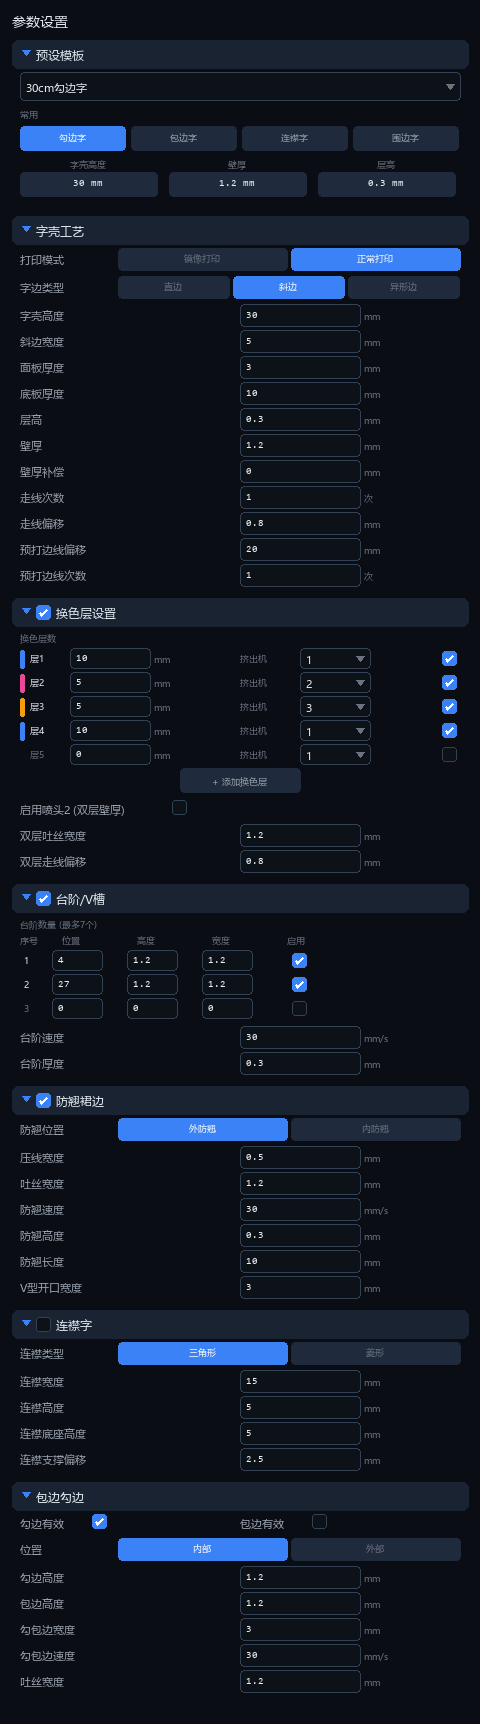
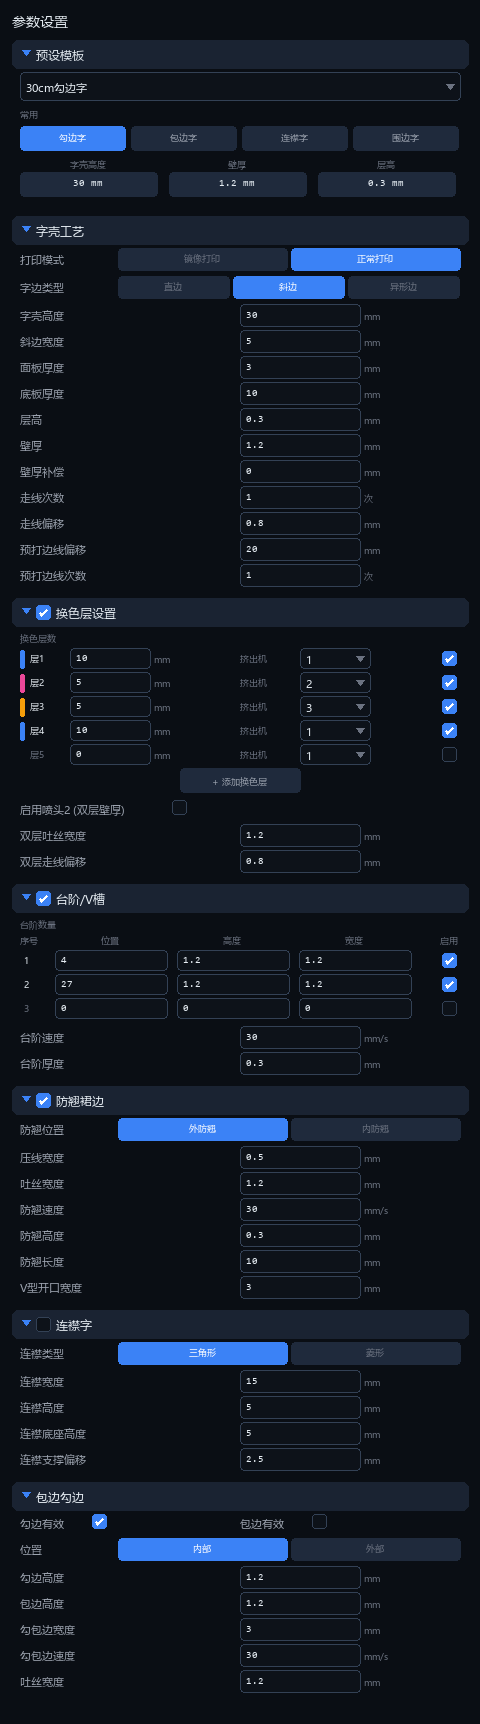
feat: 台阶/V槽设置布局优化
- 位置、高度、宽度三列均匀分布
- 表头文字与输入框居中对齐
- 复选框与换色层复选框对齐
- 删除"(最多7个)"提示文字

diff --git a/scripts/generate_ui_params.py b/scripts/generate_ui_params.py
@@ -375,15 +375,38 @@ def generate_part1():
     # ============================================
     renderer.draw_section_header("台阶/V槽", expanded=True, has_checkbox=True, checked=True)
 
-    renderer.draw_text(m + 8, renderer.y + 2, "台阶数量 (最多7个)", font_small, C["text_muted"])
+    renderer.draw_text(m + 8, renderer.y + 2, "台阶数量", font_small, C["text_muted"])
     renderer.y += 18
 
-    # 表头
-    renderer.draw_text(m + 8, renderer.y, "序号", font_small, C["text_muted"])
-    renderer.draw_text(m + 50, renderer.y, "位置", font_small, C["text_muted"])
-    renderer.draw_text(m + 125, renderer.y, "高度", font_small, C["text_muted"])
-    renderer.draw_text(m + 200, renderer.y, "宽度", font_small, C["text_muted"])
-    renderer.draw_text(m + 275, renderer.y, "启用", font_small, C["text_muted"])
+    # 台阶布局 - 均匀分布
+    row_start = m + 8
+    row_end = m + renderer.content_w - 8
+    total_w = row_end - row_start
+
+    # 列位置计算 - 序号和启用之间三等分
+    col_seq = row_start  # 序号
+    seq_w = 35  # 序号列宽度
+    col_enable = row_end - 18  # 启用 - 与换色层复选框对齐
+
+    # 中间区域三等分
+    middle_start = row_start + seq_w
+    middle_end = col_enable - 20  # 留出启用列空间
+    middle_w = middle_end - middle_start
+    third_w = middle_w // 3
+
+    col_pos = middle_start  # 位置
+    col_height = middle_start + third_w  # 高度
+    col_width = middle_start + third_w * 2  # 宽度
+
+    input_w = third_w - 10  # 输入框宽度，留出间距
+
+    # 表头 - 文字与输入框居中对齐
+    renderer.draw_text(int(col_seq), renderer.y, "序号", font_small, C["text_muted"])
+    # 位置、高度、宽度居中于输入框
+    renderer.draw_text(int(col_pos) + input_w // 2 - 10, renderer.y, "位置", font_small, C["text_muted"])
+    renderer.draw_text(int(col_height) + input_w // 2 - 10, renderer.y, "高度", font_small, C["text_muted"])
+    renderer.draw_text(int(col_width) + input_w // 2 - 10, renderer.y, "宽度", font_small, C["text_muted"])
+    renderer.draw_text(int(col_enable) - 2, renderer.y, "启用", font_small, C["text_muted"])
     renderer.y += 16
 
     steps = [
@@ -393,11 +416,11 @@ def generate_part1():
     ]
 
     for step_num, pos, height, width, enabled in steps:
-        renderer.draw_text(m + 12, renderer.y + 4, step_num, font_small, C["text_primary"] if enabled else C["text_muted"])
-        renderer.draw_input(m + 40, renderer.y, 50, 20, pos)
-        renderer.draw_input(m + 115, renderer.y, 50, 20, height)
-        renderer.draw_input(m + 190, renderer.y, 50, 20, width)
-        renderer.draw_checkbox(m + 280, renderer.y + 3, enabled, 14)
+        renderer.draw_text(int(col_seq) + 4, renderer.y + 4, step_num, font_small, C["text_primary"] if enabled else C["text_muted"])
+        renderer.draw_input(int(col_pos), renderer.y, input_w, 20, pos)
+        renderer.draw_input(int(col_height), renderer.y, input_w, 20, height)
+        renderer.draw_input(int(col_width), renderer.y, input_w, 20, width)
+        renderer.draw_checkbox(int(col_enable), renderer.y + 3, enabled, 14)
         renderer.y += 24
 
     renderer.y += 4
